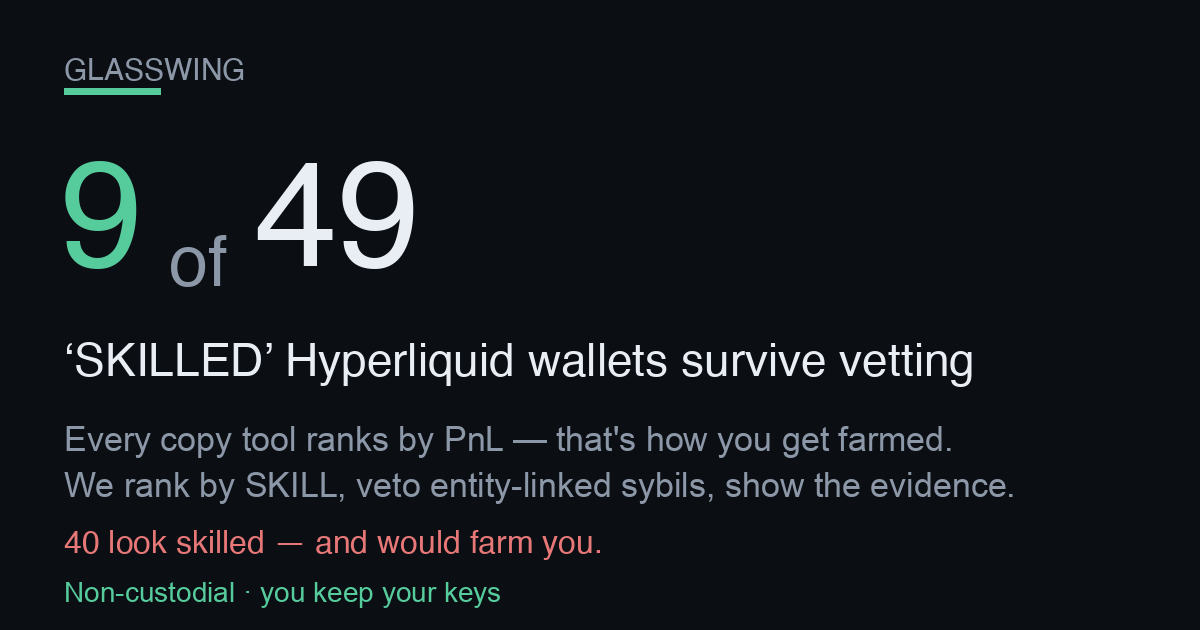
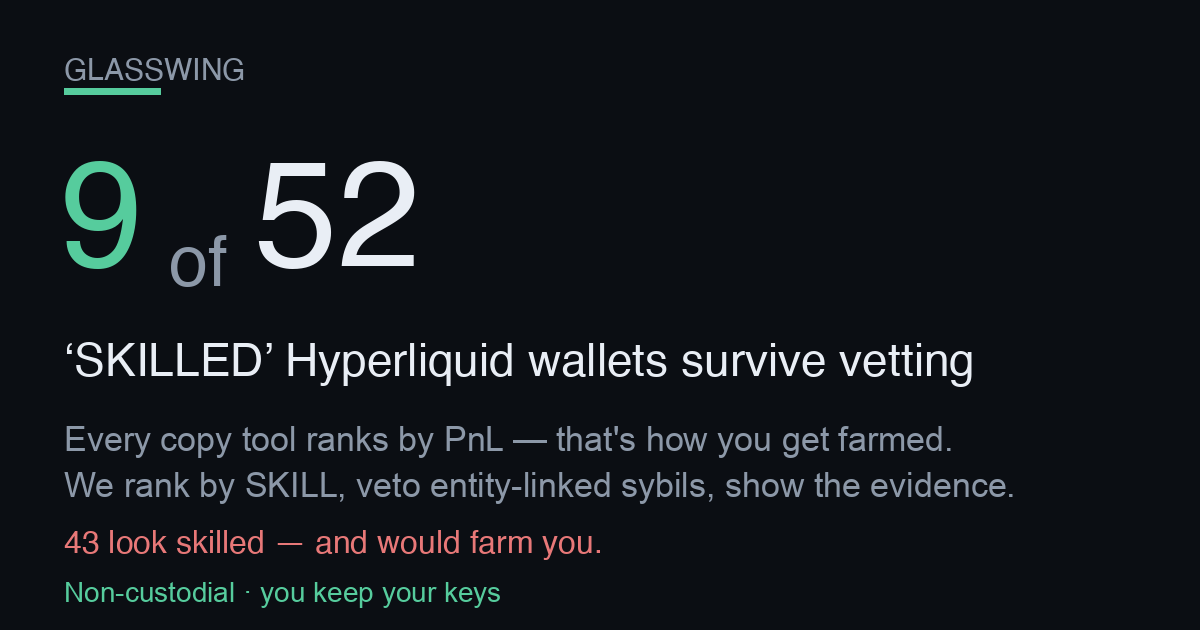
publish funnel 2026-07-23T16:58:21Z

Changed region(s): [[0.2158, 0.2413, 0.37, 0.4222], [0.0617, 0.8444, 0.0925, 0.8746]]

diff --git a/screener.html b/screener.html
@@ -57,4 +57,4 @@ padding:11px 22px;font-size:15px;font-weight:800;border:1px solid var(--good)}
 footer{margin-top:34px;color:var(--muted);font-size:12px;line-height:1.6;
 border-top:1px solid var(--line);padding-top:16px}
 footer b{color:var(--ink)}
-</style></head><body><div class="wrap"><div class="nav"><a href="./index.html">&larr; Glasswing home</a><span class="sep">|</span><span>Edge Screener</span><span class="sep">|</span><a href="./dex.html">Copy a vetted leader</a></div><div class="hero"><h1>Hyperliquid Edge Screener</h1><div class="sub">Where&rsquo;s the carry, where a maker earns, and what&rsquo;s moving on Hyperliquid &mdash; live, computed from the public API. Bookmark it. Every number below is real and timestamped.</div><div class="stamp">Data as of <b>2026-07-23T10:55:04Z</b> &middot; rendered 2026-07-23T10:55:04Z &middot; 177 perps &middot; 88 HIP-3 (xyz) markets scanned</div></div><h2>Top funding &mdash; the carry table <span class="hint">perps ranked by annualized funding. Positive = longs pay shorts (a delta-neutral short earns it).</span></h2><div class="tblwrap"><table><thead><tr><th>Coin</th><th>Funding / hr</th><th>Annualized</th><th>Who pays</th><th>Open interest</th><th>24h volume</th></tr></thead><tbody><tr><td class="coin">VINE<span class="tag thin" title="Low liquidity/OI &mdash; ADL &amp; liquidation risk; funding can flip">&#9888; thin</span></td><td>+0.0261%</td><td class="pos">+228.7%</td><td><span class="tag longs">longs pay</span></td><td>$367K</td><td>$361K</td></tr><tr><td class="coin">CASHCAT</td><td>+0.0186%</td><td class="pos">+163.3%</td><td><span class="tag longs">longs pay</span></td><td>$8.7M</td><td>$14.0M</td></tr><tr><td class="coin">ACE<span class="tag thin" title="Low liquidity/OI &mdash; ADL &amp; liquidation risk; funding can flip">&#9888; thin</span></td><td>-0.0150%</td><td class="neg">-131.8%</td><td><span class="tag shorts">shorts pay</span></td><td>$442K</td><td>$784K</td></tr><tr><td class="coin">PURR<span class="tag thin" title="Low liquidity/OI &mdash; ADL &amp; liquidation risk; funding can flip">&#9888; thin</span></td><td>+0.0118%</td><td class="pos">+103.0%</td><td><span class="tag longs">longs pay</span></td><td>$6.3M</td><td>$231K</td></tr><tr><td class="coin">STABLE</td><td>+0.0097%</td><td class="pos">+85.0%</td><td><span class="tag longs">longs pay</span></td><td>$3.8M</td><td>$1.7M</td></tr><tr><td class="coin">SAGA<span class="tag thin" title="Low liquidity/OI &mdash; ADL &amp; liquidation risk; funding can flip">&#9888; thin</span></td><td>+0.0072%</td><td class="pos">+63.0%</td><td><span class="tag longs">longs pay</span></td><td>$1.5M</td><td>$150K</td></tr><tr><td class="coin">kNEIRO<span class="tag thin" title="Low liquidity/OI &mdash; ADL &amp; liquidation risk; funding can flip">&#9888; thin</span></td><td>-0.0048%</td><td class="neg">-42.1%</td><td><span class="tag shorts">shorts pay</span></td><td>$179K</td><td>$100K</td></tr><tr><td class="coin">BIGTIME<span class="tag thin" title="Low liquidity/OI &mdash; ADL &amp; liquidation risk; funding can flip">&#9888; thin</span></td><td>-0.0045%</td><td class="neg">-39.7%</td><td><span class="tag shorts">shorts pay</span></td><td>$226K</td><td>$244K</td></tr><tr><td class="coin">UMA<span class="tag thin" title="Low liquidity/OI &mdash; ADL &amp; liquidation risk; funding can flip">&#9888; thin</span></td><td>-0.0045%</td><td class="neg">-39.5%</td><td><span class="tag shorts">shorts pay</span></td><td>$305K</td><td>$92K</td></tr><tr><td class="coin">APEX<span class="tag thin" title="Low liquidity/OI &mdash; ADL &amp; liquidation risk; funding can flip">&#9888; thin</span></td><td>+0.0044%</td><td class="pos">+38.4%</td><td><span class="tag longs">longs pay</span></td><td>$1.3M</td><td>$128K</td></tr><tr><td class="coin">VIRTUAL</td><td>-0.0033%</td><td class="neg">-28.7%</td><td><span class="tag shorts">shorts pay</span></td><td>$7.1M</td><td>$2.3M</td></tr><tr><td class="coin">FIL</td><td>-0.0032%</td><td class="neg">-27.7%</td><td><span class="tag shorts">shorts pay</span></td><td>$2.2M</td><td>$478K</td></tr></tbody></table></div><h2>Widest HIP-3 spreads &mdash; where a maker earns <span class="hint">xyz: markets by impact-price spread vs the ~0.6bps round-trip fee. A resting limit order captures the gap.</span></h2><div class="tblwrap"><table><thead><tr><th>Market</th><th>Spread</th><th>vs 0.6bps fee</th><th>Mid</th><th>24h volume</th></tr></thead><tbody><tr><td class="coin">xyz:BIRD<span class="tag gm">growth</span></td><td>142.3 bps</td><td class="pos">+141.7 bps</td><td>2.7670</td><td>$84K</td></tr><tr><td class="coin">xyz:SOFTBANK<span class="tag gm">growth</span></td><td>137.0 bps</td><td class="pos">+136.4 bps</td><td>36.2160</td><td>$744K</td></tr><tr><td class="coin">xyz:GIGADEV<span class="tag gm">growth</span></td><td>80.7 bps</td><td class="pos">+80.1 bps</td><td>66.8595</td><td>$105K</td></tr><tr><td class="coin">xyz:MINIMAX<span class="tag gm">growth</span></td><td>75.8 bps</td><td class="pos">+75.2 bps</td><td>25.5235</td><td>$2.6M</td></tr><tr><td class="coin">xyz:URNM<span class="tag gm">growth</span></td><td>61.9 bps</td><td class="pos">+61.3 bps</td><td>51.5925</td><td>$143K</td></tr><tr><td class="coin">xyz:PURRDAT</td><td>60.3 bps</td><td class="pos">+59.7 bps</td><td>6.8610</td><td>$2.0M</td></tr><tr><td class="coin">xyz:BOT<span class="tag gm">growth</span></td><td>49.6 bps</td><td class="pos">+49.0 bps</td><td>27.3320</td><td>$1.4M</td></tr><tr><td class="coin">xyz:KR200<span class="tag gm">growth</span></td><td>40.6 bps</td><td class="pos">+40.0 bps</td><td>1,133.80</td><td>$469K</td></tr><tr><td class="coin">xyz:SHAZ<span class="tag gm">growth</span></td><td>39.2 bps</td><td class="pos">+38.6 bps</td><td>72.1035</td><td>$1.8M</td></tr><tr><td class="coin">xyz:EWZ<span class="tag gm">growth</span></td><td>36.6 bps</td><td class="pos">+36.0 bps</td><td>36.7270</td><td>$165K</td></tr><tr><td class="coin">xyz:ZM<span class="tag gm">growth</span></td><td>30.7 bps</td><td class="pos">+30.1 bps</td><td>86.6200</td><td>$1.2M</td></tr><tr><td class="coin">xyz:DKNG<span class="tag gm">growth</span></td><td>29.3 bps</td><td class="pos">+28.7 bps</td><td>22.8995</td><td>$2.3M</td></tr></tbody></table></div><h2>Momentum &amp; volume &mdash; what&rsquo;s moving <span class="hint">perps by 24h volume with the 24h price change (mark vs prior-day).</span></h2><div class="tblwrap"><table><thead><tr><th>Coin</th><th>24h volume</th><th>24h change</th><th>Mark</th></tr></thead><tbody><tr><td class="coin">BTC</td><td>$1.98B</td><td class="neg">-0.49%</td><td>65,702.00</td></tr><tr><td class="coin">ETH</td><td>$918.9M</td><td class="neg">-0.17%</td><td>1,927.20</td></tr><tr><td class="coin">HYPE</td><td>$341.6M</td><td class="pos">+0.03%</td><td>59.0430</td></tr><tr><td class="coin">SOL</td><td>$120.4M</td><td class="pos">+0.03%</td><td>77.6553</td></tr><tr><td class="coin">ZEC</td><td>$60.7M</td><td class="neg">-0.27%</td><td>515.0100</td></tr><tr><td class="coin">XRP</td><td>$18.8M</td><td class="neg">-0.38%</td><td>1.1339</td></tr><tr><td class="coin">CASHCAT</td><td>$14.0M</td><td class="neg">-27.53%</td><td>0.047265</td></tr><tr><td class="coin">PUMP</td><td>$13.7M</td><td class="neg">-3.34%</td><td>0.001911</td></tr><tr><td class="coin">LIT</td><td>$13.1M</td><td class="neg">-3.28%</td><td>2.2208</td></tr><tr><td class="coin">ONDO</td><td>$12.5M</td><td class="neg">-1.72%</td><td>0.40407</td></tr><tr><td class="coin">ENA</td><td>$10.7M</td><td class="pos">+3.43%</td><td>0.09137</td></tr><tr><td class="coin">AAVE</td><td>$9.6M</td><td class="pos">+1.10%</td><td>97.1380</td></tr></tbody></table></div><div class="cta"><h2>These are the opportunities. Now copy the people who trade them.</h2><p class="lead">Spotting the carry and the spreads is the easy part &mdash; sizing, timing and risk are where most traders bleed. Copy the <b>skill-vetted</b> Hyperliquid leaders who actually trade these edges. Non-custodial: <b>you keep your keys and your funds</b> the entire time.</p><div class="row"><a class="btn" href="./index.html">See the vetted leaders &rarr;</a><a class="btn ghost" href="./dex.html">Start copying (non-custodial) &rarr;</a></div><div class="nc"><b>Non-custodial &amp; honest:</b> we never hold your keys or funds. Copying routes through a <b>0.01%</b> (1bp) on-chain builder fee &mdash; that is the only thing we ever charge, and it is the same fee shown on the copy page. Nothing on this screener is executed for you; it is information only.</div></div><footer><b>Not financial advice.</b> Funding rates, spreads and volumes are live snapshots that change every block; figures can be stale by the time you act. A high funding rate is <b>not free money</b> &mdash; the biggest rates sit on the thinnest, most crowded books (flagged &#9888; thin), where funding can flip against you and auto-deleveraging (ADL) or liquidation can close your position. &ldquo;Spread&rdquo; here is the impact-price spread (a conservative maker signal), not a guaranteed fill. HIP-3 markets are experimental. Do your own research and size responsibly. Glasswing is <b>non-custodial</b> &mdash; we never take custody of your keys or funds.</footer></div></body></html>
+</style></head><body><div class="wrap"><div class="nav"><a href="./index.html">&larr; Glasswing home</a><span class="sep">|</span><span>Edge Screener</span><span class="sep">|</span><a href="./dex.html">Copy a vetted leader</a></div><div class="hero"><h1>Hyperliquid Edge Screener</h1><div class="sub">Where&rsquo;s the carry, where a maker earns, and what&rsquo;s moving on Hyperliquid &mdash; live, computed from the public API. Bookmark it. Every number below is real and timestamped.</div><div class="stamp">Data as of <b>2026-07-23T16:56:49Z</b> &middot; rendered 2026-07-23T16:56:49Z &middot; 177 perps &middot; 88 HIP-3 (xyz) markets scanned</div></div><h2>Top funding &mdash; the carry table <span class="hint">perps ranked by annualized funding. Positive = longs pay shorts (a delta-neutral short earns it).</span></h2><div class="tblwrap"><table><thead><tr><th>Coin</th><th>Funding / hr</th><th>Annualized</th><th>Who pays</th><th>Open interest</th><th>24h volume</th></tr></thead><tbody><tr><td class="coin">ACE<span class="tag thin" title="Low liquidity/OI &mdash; ADL &amp; liquidation risk; funding can flip">&#9888; thin</span></td><td>-0.0278%</td><td class="neg">-243.2%</td><td><span class="tag shorts">shorts pay</span></td><td>$399K</td><td>$664K</td></tr><tr><td class="coin">CASHCAT</td><td>+0.0131%</td><td class="pos">+114.6%</td><td><span class="tag longs">longs pay</span></td><td>$9.2M</td><td>$13.1M</td></tr><tr><td class="coin">VINE<span class="tag thin" title="Low liquidity/OI &mdash; ADL &amp; liquidation risk; funding can flip">&#9888; thin</span></td><td>+0.0076%</td><td class="pos">+66.6%</td><td><span class="tag longs">longs pay</span></td><td>$352K</td><td>$306K</td></tr><tr><td class="coin">XAI<span class="tag thin" title="Low liquidity/OI &mdash; ADL &amp; liquidation risk; funding can flip">&#9888; thin</span></td><td>-0.0056%</td><td class="neg">-49.4%</td><td><span class="tag shorts">shorts pay</span></td><td>$348K</td><td>$82K</td></tr><tr><td class="coin">TURBO<span class="tag thin" title="Low liquidity/OI &mdash; ADL &amp; liquidation risk; funding can flip">&#9888; thin</span></td><td>-0.0055%</td><td class="neg">-48.1%</td><td><span class="tag shorts">shorts pay</span></td><td>$230K</td><td>$84K</td></tr><tr><td class="coin">APEX<span class="tag thin" title="Low liquidity/OI &mdash; ADL &amp; liquidation risk; funding can flip">&#9888; thin</span></td><td>+0.0052%</td><td class="pos">+45.7%</td><td><span class="tag longs">longs pay</span></td><td>$1.3M</td><td>$143K</td></tr><tr><td class="coin">AIXBT<span class="tag thin" title="Low liquidity/OI &mdash; ADL &amp; liquidation risk; funding can flip">&#9888; thin</span></td><td>-0.0051%</td><td class="neg">-44.9%</td><td><span class="tag shorts">shorts pay</span></td><td>$459K</td><td>$194K</td></tr><tr><td class="coin">kBONK</td><td>-0.0032%</td><td class="neg">-28.2%</td><td><span class="tag shorts">shorts pay</span></td><td>$6.5M</td><td>$3.1M</td></tr><tr><td class="coin">INIT<span class="tag thin" title="Low liquidity/OI &mdash; ADL &amp; liquidation risk; funding can flip">&#9888; thin</span></td><td>-0.0031%</td><td class="neg">-27.2%</td><td><span class="tag shorts">shorts pay</span></td><td>$199K</td><td>$470K</td></tr><tr><td class="coin">ALT<span class="tag thin" title="Low liquidity/OI &mdash; ADL &amp; liquidation risk; funding can flip">&#9888; thin</span></td><td>-0.0027%</td><td class="neg">-23.3%</td><td><span class="tag shorts">shorts pay</span></td><td>$536K</td><td>$123K</td></tr><tr><td class="coin">AVNT<span class="tag thin" title="Low liquidity/OI &mdash; ADL &amp; liquidation risk; funding can flip">&#9888; thin</span></td><td>-0.0025%</td><td class="neg">-21.8%</td><td><span class="tag shorts">shorts pay</span></td><td>$646K</td><td>$199K</td></tr><tr><td class="coin">MORPHO</td><td>-0.0023%</td><td class="neg">-20.3%</td><td><span class="tag shorts">shorts pay</span></td><td>$4.2M</td><td>$1.5M</td></tr></tbody></table></div><h2>Widest HIP-3 spreads &mdash; where a maker earns <span class="hint">xyz: markets by impact-price spread vs the ~0.6bps round-trip fee. A resting limit order captures the gap.</span></h2><div class="tblwrap"><table><thead><tr><th>Market</th><th>Spread</th><th>vs 0.6bps fee</th><th>Mid</th><th>24h volume</th></tr></thead><tbody><tr><td class="coin">xyz:GIGADEV<span class="tag gm">growth</span></td><td>380.8 bps</td><td class="pos">+380.2 bps</td><td>66.7435</td><td>$91K</td></tr><tr><td class="coin">xyz:BIRD<span class="tag gm">growth</span></td><td>148.1 bps</td><td class="pos">+147.5 bps</td><td>2.6912</td><td>$86K</td></tr><tr><td class="coin">xyz:SOFTBANK<span class="tag gm">growth</span></td><td>134.7 bps</td><td class="pos">+134.1 bps</td><td>34.8680</td><td>$558K</td></tr><tr><td class="coin">xyz:MINIMAX<span class="tag gm">growth</span></td><td>64.1 bps</td><td class="pos">+63.5 bps</td><td>24.9300</td><td>$2.5M</td></tr><tr><td class="coin">xyz:SHAZ<span class="tag gm">growth</span></td><td>55.8 bps</td><td class="pos">+55.2 bps</td><td>71.0170</td><td>$2.4M</td></tr><tr><td class="coin">xyz:BOT<span class="tag gm">growth</span></td><td>55.2 bps</td><td class="pos">+54.6 bps</td><td>26.2600</td><td>$1.3M</td></tr><tr><td class="coin">xyz:CXMT<span class="tag gm">growth</span></td><td>50.0 bps</td><td class="pos">+49.4 bps</td><td>6.5800</td><td>$10.5M</td></tr><tr><td class="coin">xyz:KR200<span class="tag gm">growth</span></td><td>42.0 bps</td><td class="pos">+41.4 bps</td><td>1,106.80</td><td>$428K</td></tr><tr><td class="coin">xyz:ZHIPU<span class="tag gm">growth</span></td><td>34.1 bps</td><td class="pos">+33.5 bps</td><td>146.8500</td><td>$13.2M</td></tr><tr><td class="coin">xyz:HIMS<span class="tag gm">growth</span></td><td>27.5 bps</td><td class="pos">+26.9 bps</td><td>35.2605</td><td>$3.7M</td></tr><tr><td class="coin">xyz:KIOXIA<span class="tag gm">growth</span></td><td>20.9 bps</td><td class="pos">+20.3 bps</td><td>388.8900</td><td>$2.9M</td></tr><tr><td class="coin">xyz:HYUNDAI<span class="tag gm">growth</span></td><td>20.7 bps</td><td class="pos">+20.1 bps</td><td>292.1900</td><td>$2.3M</td></tr></tbody></table></div><h2>Momentum &amp; volume &mdash; what&rsquo;s moving <span class="hint">perps by 24h volume with the 24h price change (mark vs prior-day).</span></h2><div class="tblwrap"><table><thead><tr><th>Coin</th><th>24h volume</th><th>24h change</th><th>Mark</th></tr></thead><tbody><tr><td class="coin">BTC</td><td>$1.87B</td><td class="neg">-2.18%</td><td>64,764.00</td></tr><tr><td class="coin">ETH</td><td>$858.3M</td><td class="neg">-3.07%</td><td>1,889.40</td></tr><tr><td class="coin">HYPE</td><td>$309.9M</td><td class="pos">+0.76%</td><td>58.6552</td></tr><tr><td class="coin">SOL</td><td>$106.9M</td><td class="neg">-3.23%</td><td>75.9950</td></tr><tr><td class="coin">ZEC</td><td>$59.6M</td><td class="pos">+0.40%</td><td>515.1900</td></tr><tr><td class="coin">XRP</td><td>$24.5M</td><td class="neg">-3.88%</td><td>1.1081</td></tr><tr><td class="coin">PUMP</td><td>$14.8M</td><td class="neg">-0.57%</td><td>0.001919</td></tr><tr><td class="coin">DOGE</td><td>$14.1M</td><td class="neg">-5.05%</td><td>0.069653</td></tr><tr><td class="coin">ENA</td><td>$13.9M</td><td class="neg">-1.71%</td><td>0.089507</td></tr><tr><td class="coin">CASHCAT</td><td>$13.1M</td><td class="neg">-20.50%</td><td>0.047063</td></tr><tr><td class="coin">WLFI</td><td>$11.9M</td><td class="pos">+8.25%</td><td>0.060478</td></tr><tr><td class="coin">LIT</td><td>$10.6M</td><td class="neg">-4.54%</td><td>2.2262</td></tr></tbody></table></div><div class="cta"><h2>These are the opportunities. Now copy the people who trade them.</h2><p class="lead">Spotting the carry and the spreads is the easy part &mdash; sizing, timing and risk are where most traders bleed. Copy the <b>skill-vetted</b> Hyperliquid leaders who actually trade these edges. Non-custodial: <b>you keep your keys and your funds</b> the entire time.</p><div class="row"><a class="btn" href="./index.html">See the vetted leaders &rarr;</a><a class="btn ghost" href="./dex.html">Start copying (non-custodial) &rarr;</a></div><div class="nc"><b>Non-custodial &amp; honest:</b> we never hold your keys or funds. Copying routes through a <b>0.01%</b> (1bp) on-chain builder fee &mdash; that is the only thing we ever charge, and it is the same fee shown on the copy page. Nothing on this screener is executed for you; it is information only.</div></div><footer><b>Not financial advice.</b> Funding rates, spreads and volumes are live snapshots that change every block; figures can be stale by the time you act. A high funding rate is <b>not free money</b> &mdash; the biggest rates sit on the thinnest, most crowded books (flagged &#9888; thin), where funding can flip against you and auto-deleveraging (ADL) or liquidation can close your position. &ldquo;Spread&rdquo; here is the impact-price spread (a conservative maker signal), not a guaranteed fill. HIP-3 markets are experimental. Do your own research and size responsibly. Glasswing is <b>non-custodial</b> &mdash; we never take custody of your keys or funds.</footer></div></body></html>

diff --git a/track.html b/track.html
@@ -62,7 +62,7 @@ font-weight:600;font-size:14px}
 <div class="wrap">
   <div class="hero">
     <h1>Self-verifying on-chain track record</h1>
-    <div class="big">$272.65</div>
+    <div class="big">$276.96</div>
     <div class="sub">current on-chain equity (perp + vault + spot USDC)</div>
     <div class="addr">0xbe6C1b09662BbE52CC93279D103Feb27985DdBc1</div>
     <div class="stage early">4 days live — EARLY / NOT YET A MATURE RECORD</div>
@@ -72,25 +72,25 @@ font-weight:600;font-size:14px}
 
   <h2>On-chain figures <span style="color:var(--muted);font-weight:400;font-size:13px">
   &mdash; every one reproducible from the public info API</span></h2>
-  <table><tbody><tr><td class="k">On-chain equity (perp + vault + spot USDC)</td><td class="v">$272.65</td></tr><tr><td class="k">Perp account value</td><td class="v">$206.48</td></tr><tr><td class="k">Vault equity</td><td class="v">$50.08</td></tr><tr><td class="k">Spot USDC</td><td class="v">$16.09</td></tr><tr><td class="k">Withdrawable</td><td class="v">$44.15</td></tr></tbody></table>
+  <table><tbody><tr><td class="k">On-chain equity (perp + vault + spot USDC)</td><td class="v">$276.96</td></tr><tr><td class="k">Perp account value</td><td class="v">$211.02</td></tr><tr><td class="k">Vault equity</td><td class="v">$49.85</td></tr><tr><td class="k">Spot USDC</td><td class="v">$16.09</td></tr><tr><td class="k">Withdrawable</td><td class="v">$51.10</td></tr></tbody></table>
 
-  <h2>Vault deposits (on-chain)</h2><table><thead><tr><th>Vault address</th><th>Our equity</th></tr></thead><tbody><tr><td class="mono">0x2431edfcb662e6ff6deab113cc91878a0b53fb0f</td><td class="v">$0.01</td></tr><tr><td class="mono">0x697bc3dd77539fa84156d0e1c95287ea5524fd6b</td><td class="v">$25.90</td></tr><tr><td class="mono">0x8825e6ed11c7f9c0874579c9f4bba192b9e81c8f</td><td class="v">$0.12</td></tr><tr><td class="mono">0xc71f5a493b937e4b1798b86510630336a6dfd804</td><td class="v">$24.05</td></tr></tbody></table>
+  <h2>Vault deposits (on-chain)</h2><table><thead><tr><th>Vault address</th><th>Our equity</th></tr></thead><tbody><tr><td class="mono">0x2431edfcb662e6ff6deab113cc91878a0b53fb0f</td><td class="v">$0.01</td></tr><tr><td class="mono">0x697bc3dd77539fa84156d0e1c95287ea5524fd6b</td><td class="v">$25.76</td></tr><tr><td class="mono">0x8825e6ed11c7f9c0874579c9f4bba192b9e81c8f</td><td class="v">$0.12</td></tr><tr><td class="mono">0xc71f5a493b937e4b1798b86510630336a6dfd804</td><td class="v">$23.95</td></tr></tbody></table>
 
   <h2>Performance <span style="color:var(--muted);font-weight:400;font-size:13px">
   &mdash; honest stage, no annualization</span></h2>
-  <table><tbody><tr><td class="k">Days live (our formal record)</td><td class="v">4</td></tr><tr><td class="k">Maturity</td><td class="v">EARLY / NOT YET A MATURE RECORD</td></tr><tr><td class="k">Current real strategy income / day</td><td class="v">$0.0551</td></tr><tr><td class="k">Cumulative net income (if attributed)</td><td class="v">$0.2776</td></tr><tr><td class="k">Annualized APR</td><td class="v">intentionally NOT computed (record too young)</td></tr></tbody></table>
+  <table><tbody><tr><td class="k">Days live (our formal record)</td><td class="v">4</td></tr><tr><td class="k">Maturity</td><td class="v">EARLY / NOT YET A MATURE RECORD</td></tr><tr><td class="k">Current real strategy income / day</td><td class="v">$0.0577</td></tr><tr><td class="k">Cumulative net income (if attributed)</td><td class="v">$0.3040</td></tr><tr><td class="k">Annualized APR</td><td class="v">intentionally NOT computed (record too young)</td></tr></tbody></table>
 
   <h2>Strategy arms <span style="color:var(--muted);font-weight:400;font-size:13px">
   &mdash; internal marks, cross-checkable against chain equity</span></h2>
-  <table><thead><tr><th>Arm</th><th>Status</th><th>Real / day</th><th>Note</th></tr></thead><tbody><tr><td class="v">carry</td><td><span class="badge live">live</span></td><td class="v">$0.0551</td><td class="k"></td></tr><tr><td class="v">copy</td><td><span class="badge live">live</span></td><td class="v">$0.0000</td><td class="k"></td></tr><tr><td class="v">builder</td><td><span class="badge off">—</span></td><td class="v">$0.0000</td><td class="k">proven live; $0 until distributed (∝ users&#x27; volume)</td></tr></tbody></table>
+  <table><thead><tr><th>Arm</th><th>Status</th><th>Real / day</th><th>Note</th></tr></thead><tbody><tr><td class="v">carry</td><td><span class="badge live">live</span></td><td class="v">$0.0577</td><td class="k"></td></tr><tr><td class="v">copy</td><td><span class="badge live">live</span></td><td class="v">$0.0000</td><td class="k"></td></tr><tr><td class="v">builder</td><td><span class="badge off">—</span></td><td class="v">$0.0000</td><td class="k">proven live; $0 until distributed (∝ users&#x27; volume)</td></tr></tbody></table>
 
   <h2>Reproduce it</h2>
   <div class="verify"><h3>Verify this yourself</h3><p>These are PUBLIC calls. Run them yourself against the address below and you will re-derive every on-chain figure on this page. equity_usd = perp accountValue + vault equity + spot USDC. Endpoint: https://api.hyperliquid.xyz/info</p><div class="cn">clearinghouseState &rarr; marginSummary.accountValue (perp value), withdrawable, marginSummary.totalMarginUsed</div><pre>curl -s -X POST https://api.hyperliquid.xyz/info -H &#x27;Content-Type: application/json&#x27; -d &#x27;{&quot;type&quot;: &quot;clearinghouseState&quot;, &quot;user&quot;: &quot;0xbe6C1b09662BbE52CC93279D103Feb27985DdBc1&quot;}&#x27;</pre><div class="cn">userVaultEquities &rarr; sum of each entry&#x27;s equity (our vault deposits)</div><pre>curl -s -X POST https://api.hyperliquid.xyz/info -H &#x27;Content-Type: application/json&#x27; -d &#x27;{&quot;type&quot;: &quot;userVaultEquities&quot;, &quot;user&quot;: &quot;0xbe6C1b09662BbE52CC93279D103Feb27985DdBc1&quot;}&#x27;</pre><div class="cn">spotClearinghouseState &rarr; balances[] where coin==USDC -&gt; total (spot USDC)</div><pre>curl -s -X POST https://api.hyperliquid.xyz/info -H &#x27;Content-Type: application/json&#x27; -d &#x27;{&quot;type&quot;: &quot;spotClearinghouseState&quot;, &quot;user&quot;: &quot;0xbe6C1b09662BbE52CC93279D103Feb27985DdBc1&quot;}&#x27;</pre></div>
 
   <footer>
     <div>Self-verifying: every on-chain figure is reproducible by querying Hyperliquid&#x27;s public info API for the stated address. Internal daily marks are cross-checkable against on-chain equity. EARLY-STAGE record — not a mature track record, not an APR promise, not financial advice. Past performance != future results.</div>
-    <div class="stamp">Generated at 2026-07-23T10:54:55Z &middot; internal marks
-    mtime 2026-07-23T10:48:39Z &middot; static receipt, no live
+    <div class="stamp">Generated at 2026-07-23T16:56:22Z &middot; internal marks
+    mtime 2026-07-23T16:48:49Z &middot; static receipt, no live
     authority — this page never trades or arms.</div>
   </footer>
 </div>

diff --git a/index.html b/index.html
@@ -3,8 +3,8 @@
 <head>
 <meta charset="utf-8">
 <meta name="viewport" content="width=device-width, initial-scale=1">
-<title>9 of 49 SKILLED Hyperliquid wallets survive vetting</title>
-<meta name="description" content="9 of 49 leaderboard-SKILLED Hyperliquid wallets survive vetting. Copy only the survivors, non-custodial — you keep your keys and funds.">
+<title>9 of 52 SKILLED Hyperliquid wallets survive vetting</title>
+<meta name="description" content="9 of 52 leaderboard-SKILLED Hyperliquid wallets survive vetting. Copy only the survivors, non-custodial — you keep your keys and funds.">
 <link rel="canonical" href="https://dynobit.github.io/glasswing/">
 <meta name="robots" content="index,follow">
 <meta name="theme-color" content="#0b0e13">
@@ -14,14 +14,14 @@
      head, not this. og:url is the canonical Pages home so every share resolves here. -->
 <meta property="og:type" content="website">
 <meta property="og:site_name" content="Glasswing">
-<meta property="og:title" content="9 of 49 SKILLED Hyperliquid wallets survive vetting">
+<meta property="og:title" content="9 of 52 SKILLED Hyperliquid wallets survive vetting">
 <meta property="og:description" content="Every copy tool ranks leaders by PnL — which is how you get farmed. This ranks by SKILL, then vetoes entity-linked sybils, and shows the evidence for every reject. Non-custodial: you keep your keys.">
 <meta property="og:url" content="https://dynobit.github.io/glasswing/">
 <meta property="og:image" content="https://dynobit.github.io/glasswing/og-card.png">
 <meta property="og:image:width" content="1200">
 <meta property="og:image:height" content="630">
 <meta name="twitter:card" content="summary_large_image">
-<meta name="twitter:title" content="9 of 49 SKILLED Hyperliquid wallets survive vetting">
+<meta name="twitter:title" content="9 of 52 SKILLED Hyperliquid wallets survive vetting">
 <meta name="twitter:description" content="Skill-ranked (not PnL-ranked) HL copy-leaders, entity-linked sybils vetoed with evidence. Non-custodial.">
 <meta name="twitter:image" content="https://dynobit.github.io/glasswing/og-card.png">
 <style>
@@ -135,18 +135,18 @@ footer .nc{color:var(--good);font-weight:600}
 
   <!-- 1. HERO — the shareable hook (screenshot-worthy) -->
   <div class="hero">
-    <h1><span class="big">9 of 49</span> &lsquo;SKILLED&rsquo;
+    <h1><span class="big">9 of 52</span> &lsquo;SKILLED&rsquo;
     Hyperliquid wallets survive vetting</h1>
-    <div class="sub">The other <span class="trap">40</span> look skilled on a
+    <div class="sub">The other <span class="trap">43</span> look skilled on a
     raw copy leaderboard but would farm you &mdash; here are the
-    <span class="trap">40</span> that would. Entity-linked sybils,
-    wash-traded track records, or simply unscreened. 18.4% survive.
-    Universe: 380 scored wallets.</div>
+    <span class="trap">43</span> that would. Entity-linked sybils,
+    wash-traded track records, or simply unscreened. 17.3% survive.
+    Universe: 400 scored wallets.</div>
   </div>
 
   <!-- 2. THE WEDGE — the marketing (why us, not any other copy tool) -->
   <div class="wedge"><span class="them">Every other copy tool ranks all
-    49 by PnL and calls it a leaderboard.</span> We are the only one that
+    52 by PnL and calls it a leaderboard.</span> We are the only one that
     <b>flags the entity-linked and farming wallets with on-chain evidence</b> &mdash;
     transfer-graph linkage between wallets and arXiv memecoin farm-features &mdash;
     and shows you only the 9 that survive. A high PnL is exactly what a
@@ -268,7 +268,7 @@ footer .nc{color:var(--good);font-weight:600}
   <footer>
     <div class="nc">Non-custodial: we never hold your keys or funds. No server, no backend. Your browser talks only to Hyperliquid&#x27;s public API.</div>
     <div>Advisory. Skill = sign-randomization null vs luck. Entity veto = public transfer-graph linkage. Farm screen = arXiv:2601.08641 features (memecoin thresholds, HL-uncalibrated). Follower-realizable PnL is NOT yet proven — a PRE-COMMITTED forward test is in progress (0/2 windows, earliest 2026-08-13); the copyability claim publishes only when the pre-registered windows close, so it cannot be discovery-mined. Exit-alpha shown is advisory. Not financial advice.</div>
-    <div class="stamp">Generated at 2026-07-23T10:54:59Z &middot; single-file funnel,
+    <div class="stamp">Generated at 2026-07-23T16:56:30Z &middot; single-file funnel,
     no live authority. In-browser order signing is IMPLEMENTED (real secp256k1 +
     keccak + msgpack EIP-712 from a pinned CDN) but UNVALIDATED against Hyperliquid:
     mainnet is blocked until a testnet order is proven accepted.</div>

diff --git a/dex.html b/dex.html
@@ -112,8 +112,8 @@ footer .nc{color:var(--good);font-weight:600}
     funds and your keys the whole time. Two signatures in your own wallet, an
     ephemeral in-browser agent key that can trade but never withdraw, and a
     client-side loop that mirrors only the
-    <b>9 of 49</b> vetted survivors
-    (universe: 380 scored wallets). No server, no backend.</div>
+    <b>9 of 52</b> vetted survivors
+    (universe: 400 scored wallets). No server, no backend.</div>
     <div class="tag">static bundle &middot; IPFS-publishable &middot; revenue accrues on-chain</div>
   </div>
 
@@ -217,7 +217,7 @@ footer .nc{color:var(--good);font-weight:600}
   <footer>
     <div class="nc">Pure DEX, self-custodial. No server, no backend, no key we ever hold. Your browser talks only to Hyperliquid&#x27;s public API.</div>
     <div>Advisory. Skill = sign-randomization null vs luck. Entity veto = public transfer-graph linkage. Farm screen = arXiv:2601.08641 features (memecoin thresholds, HL-uncalibrated). Follower-realizable PnL is NOT yet proven — a PRE-COMMITTED forward test is in progress (0/2 windows, earliest 2026-08-13); the copyability claim publishes only when the pre-registered windows close, so it cannot be discovery-mined. Exit-alpha shown is advisory. Not financial advice.</div>
-    <div class="stamp">Generated at 2026-07-23T10:54:59Z &middot; static,
+    <div class="stamp">Generated at 2026-07-23T16:56:30Z &middot; static,
     self-custodial surface, no live authority. In-browser order signing is
     IMPLEMENTED (real secp256k1 + keccak + msgpack EIP-712 from a pinned CDN) but
     UNVALIDATED against Hyperliquid: mainnet is blocked until a testnet order is
